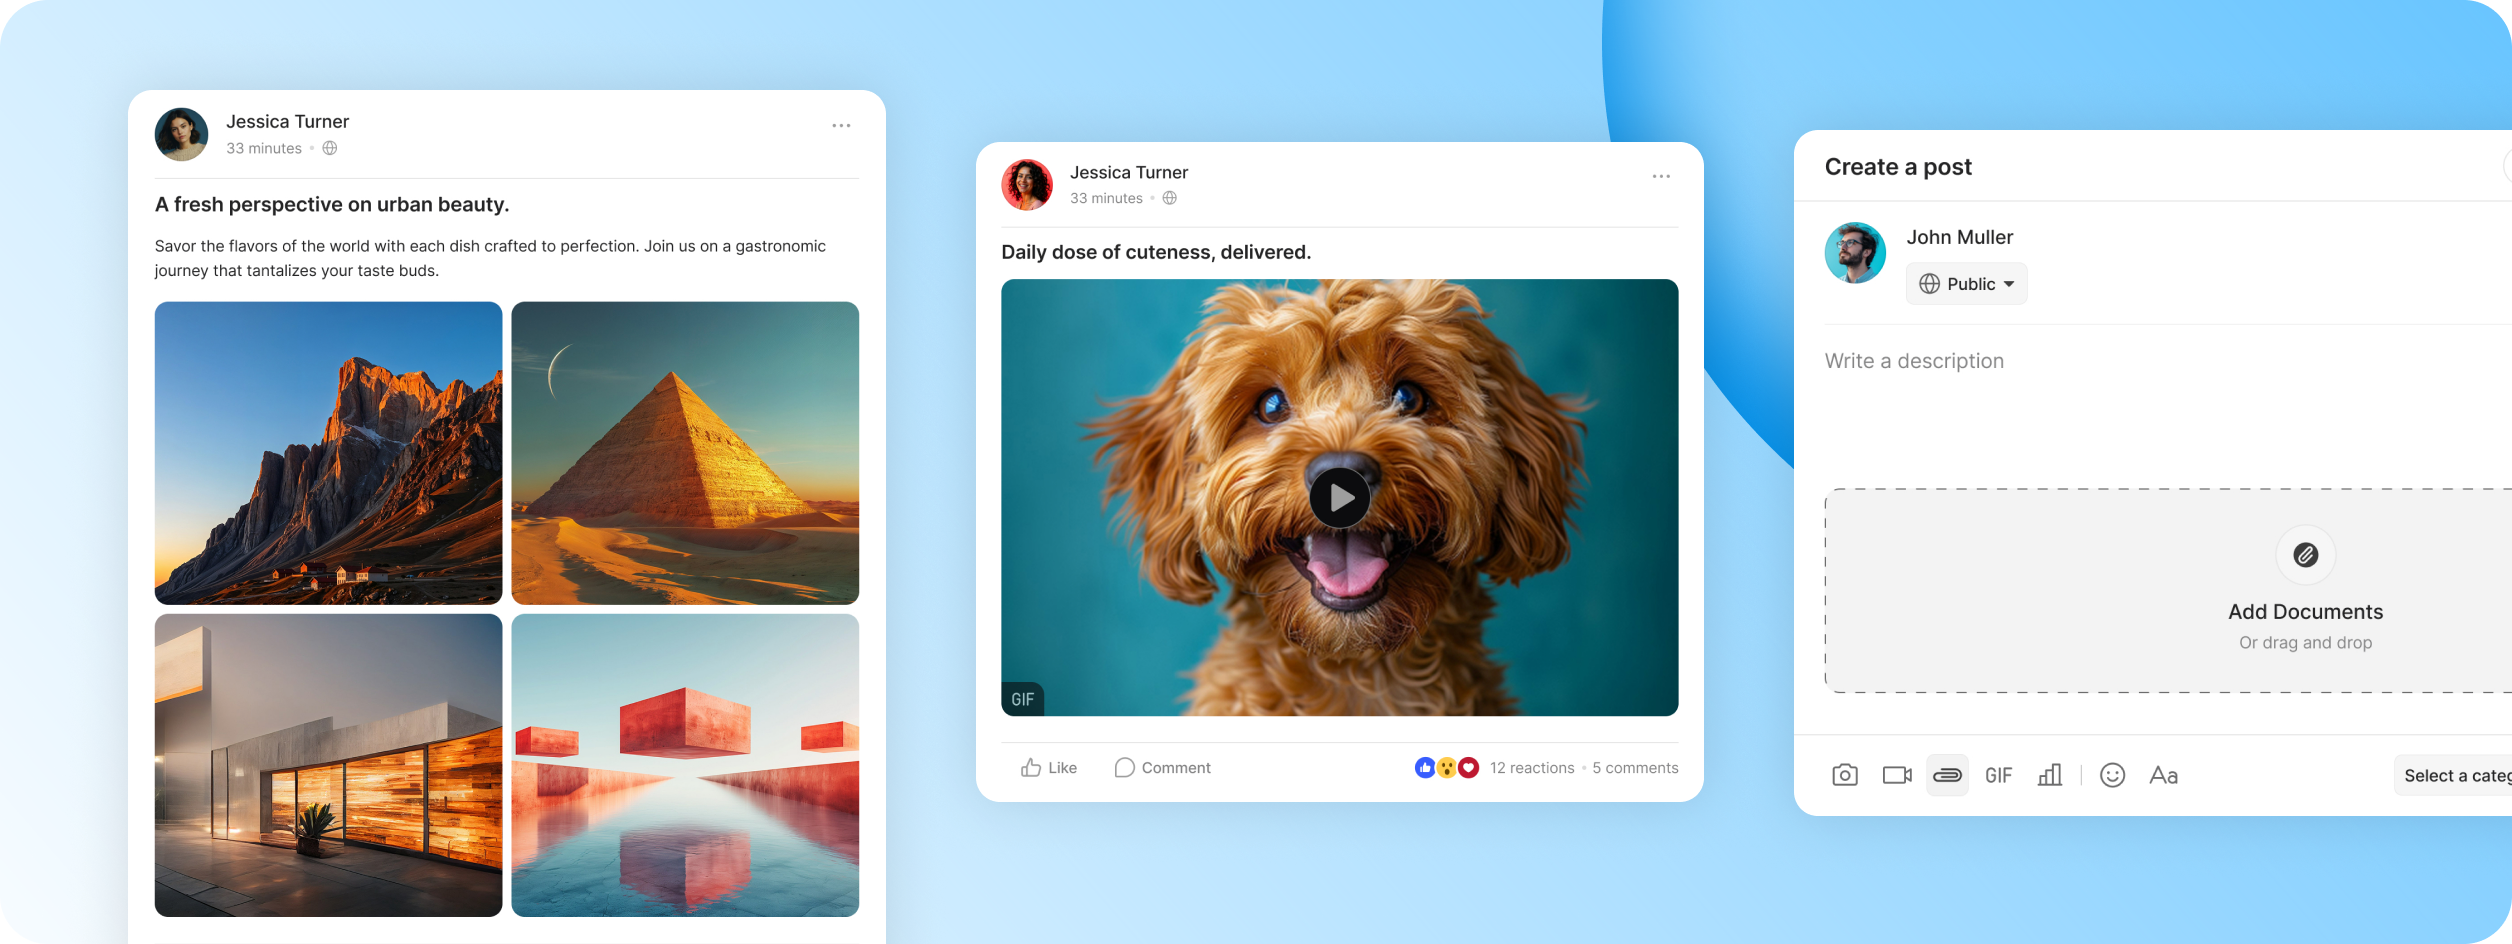
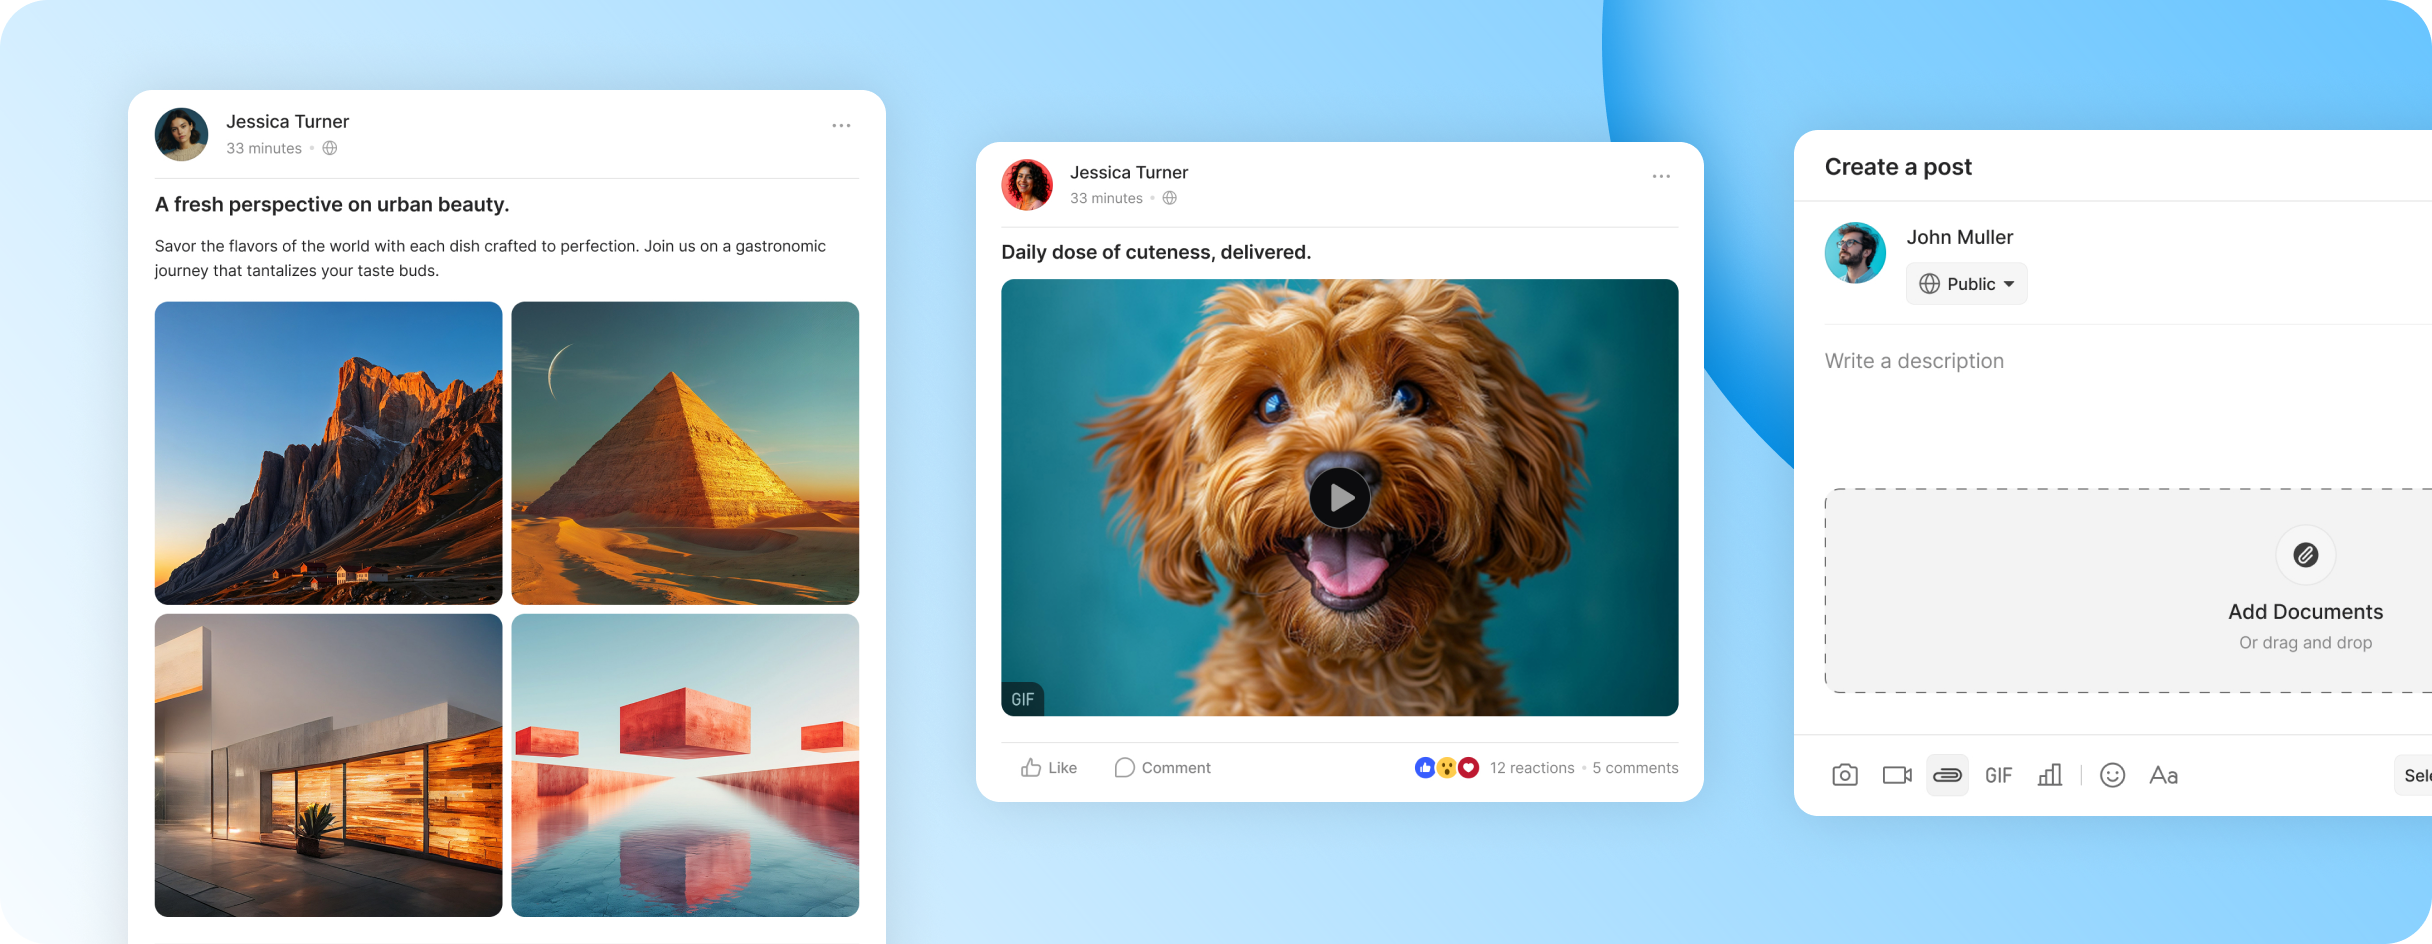
Fix eight spacing and asset mismatches found auditing against Figma
Measured every section's height against live node metadata rather than
eyeballing a render. Eight real differences, all now zero:

  .stack gap was 24px, design says 40   media uploads, gamifications
  .stack--tight bottom pad 24 -> 32     gamifications
  Media Uploads wrapper 1280 -> 1240    and the panel re-exported to suit
  .halves needed 12px block padding     536 -> 560, x4 sections
  .review stars gap 32 -> 16            32 stays below the quote
  .testimonials padding-top 72 -> 80
  app band ellipse double-rotated       flipped its gradient end to end
  WP buttons min-height -> max-height    44 -> 40 with the 1px border

The ellipse is the interesting one: it is rotated 180deg in Figma and the
export already bakes that in, so the CSS rotate(180deg) turned it back
over and put the strong end of its gradient at the top. It now uses the
clipped visible piece at its true bounds with no transform.

Media Uploads being 1240 wide is worth a second look — every other card
is the full 1280 and it stays flush left, so the right edge lands at
1400 instead of 1440. Reproduced as drawn.

Every section height is now within 2px of the design in both builds, all
20 gaps are exactly 104, and the large-area colour palette matches. What
is left of the whole-page diff (3.86%) is the Stack Sans substitution.

diff --git a/wordpress/bb-features/assets/css/features.css b/wordpress/bb-features/assets/css/features.css
@@ -169,7 +169,9 @@
 .bbf .wp-block-button { margin: 0; }
 .bbf-btn .wp-block-button__link {
   display: inline-flex; align-items: center; justify-content: center; gap: 8px;
-  padding: 10px 16px; min-height: 40px;
+  /* max-height, not min-height: with a 1px border the padding + 22px line box
+     comes to 44 and the button overshoots the design's 40. */
+  padding: 10px 16px; max-height: 40px; overflow: hidden;
   border-radius: var(--bbf-radius-lg);
   font-family: var(--bbf-font-body);
   font-size: var(--bbf-sm); line-height: var(--bbf-lh-sm); font-weight: 500;
@@ -200,7 +202,7 @@
   background: var(--bbf-surface); color: var(--bbf-text-brand); border: 0;
 }
 .bbf-btn--lg .wp-block-button__link {
-  min-height: 48px; padding: 12px 24px;
+  max-height: 48px; padding: 12px 24px;
   font-size: var(--bbf-md); line-height: var(--bbf-lh-md);
 }
 .bbf-btn--lg .wp-block-button__link::after {
@@ -394,11 +396,13 @@
    ================================================================= */
 .bbf-stack {
   margin-top: 32px;
-  display: flex; flex-direction: column; gap: 24px;
+  display: flex; flex-direction: column; gap: 40px;
   padding: 12px 12px 32px;
   border-radius: var(--bbf-radius-3xl);
 }
-.bbf-stack--tight { padding-bottom: 24px; }
+/* Media Uploads is the one card that isn't the full 1280 content width —
+   the design has its wrapper at 1240, still flush left at the gutter. */
+.bbf-stack--narrow { max-width: 1240px; }
 .bbf-stack__panel { border-radius: var(--bbf-radius-3xl); overflow: hidden; }
 
 .bbf-features { display: grid; grid-template-columns: repeat(4, 1fr); gap: 48px; padding: 8px 24px; }
@@ -424,7 +428,9 @@
 /* =================================================================
    HALVES  (half copy / half artwork)
    ================================================================= */
-.bbf-halves { display: grid; grid-template-columns: 432px 1fr; gap: 80px; align-items: center; }
+/* the artwork is inset 12px top and bottom inside the 560px row */
+.bbf-halves { display: grid; grid-template-columns: 432px 1fr; gap: 80px; align-items: center;
+              padding-block: 12px; }
 .bbf-halves--flip { grid-template-columns: 1fr 436px; }
 .bbf-halves__copy { display: flex; flex-direction: column; gap: 24px; align-items: flex-start; }
 .bbf-halves__intro { display: flex; flex-direction: column; gap: 16px; }
@@ -450,9 +456,12 @@
   left: -84.08px; top: 216px; width: 671.17px; height: 582px;
   background-image: url('../img/app-polygon.svg');
 }
+/* The ellipse is rotated 180deg in Figma, and the export already bakes that
+   in — rotating it again in CSS flipped its gradient, putting the strong end
+   at the top instead of the bottom. This is the clipped visible piece, so it
+   sits at its true bounds with no transform. */
 .bbf-app::after {
-  left: 1223.74px; top: -73.87px; width: 545.8px; height: 547.15px;
-  transform: rotate(180deg);
+  left: 1223px; top: 0; width: 377px; height: 474px;
   background-image: url('../img/app-ellipse.svg');
 }
 .bbf-app__inner {
@@ -561,8 +570,10 @@
       var(--bbf-stroke-default) 81%, var(--bbf-stroke-rule)) border-box;
   border-radius: var(--bbf-radius-3xl);
   padding: 48px;
-  display: flex; flex-direction: column; gap: 32px;
+  /* stars sit 16px above the quote, then 32px down to the reviewer */
+  display: flex; flex-direction: column; gap: 16px;
 }
+.bbf-review__by { margin-top: 16px; }
 .bbf-review__stars { display: flex; gap: 12px; }
 .bbf-review__stars span {
   width: 32px; height: 32px;
@@ -603,7 +614,7 @@
 /* =================================================================
    TESTIMONIALS
    ================================================================= */
-.bbf-testimonials { background: var(--bbf-brand-subtle); padding-block: 72px 80px; }
+.bbf-testimonials { background: var(--bbf-brand-subtle); padding-block: 80px; }
 .bbf-testimonials__title { max-width: 795px; margin-bottom: 40px; }
 .bbf-tcards { display: grid; grid-template-columns: repeat(3, 1fr); gap: 24px; align-items: start; }
 .bbf-tcard {

diff --git a/website/css/style.css b/website/css/style.css
@@ -413,11 +413,13 @@ button { font: inherit; color: inherit; background: none; border: 0; cursor: poi
    ================================================================= */
 .stack {
   margin-top: 32px;
-  display: flex; flex-direction: column; gap: 24px;
+  display: flex; flex-direction: column; gap: 40px;
   padding: 12px 12px 32px;
   border-radius: var(--radius-3xl);
 }
-.stack--tight { padding-bottom: 24px; }
+/* Media Uploads is the one card that isn't the full 1280 content width —
+   the design has its wrapper at 1240, still flush left at the gutter. */
+.stack--narrow { max-width: 1240px; }
 .stack__panel { border-radius: var(--radius-3xl); overflow: hidden; }
 .stack__panel img { width: 100%; height: auto; }
 
@@ -449,6 +451,8 @@ button { font: inherit; color: inherit; background: none; border: 0; cursor: poi
 .halves {
   display: grid; grid-template-columns: 432px 1fr; gap: 80px;
   align-items: center;
+  /* the artwork is inset 12px top and bottom inside the 560px row */
+  padding-block: 12px;
 }
 .halves--flip { grid-template-columns: 1fr 436px; }
 .halves__copy { display: flex; flex-direction: column; gap: 24px; align-items: flex-start; }
@@ -470,8 +474,11 @@ button { font: inherit; color: inherit; background: none; border: 0; cursor: poi
    frame. Both sit behind the content. */
 .app-band__deco { position: absolute; pointer-events: none; z-index: 0; }
 .app-band__poly    { left: -84.08px;  top: 216px;    width: 671.17px; height: 582px; }
-.app-band__ellipse { left: 1223.74px; top: -73.87px; width: 545.8px;  height: 547.15px;
-                     transform: rotate(180deg); }
+/* The ellipse is rotated 180deg in Figma, and the export already bakes that
+   in — rotating it again in CSS flipped its gradient, putting the strong end
+   at the top instead of the bottom. This is the clipped visible piece, so it
+   sits at its true bounds with no transform. */
+.app-band__ellipse { left: 1223px; top: 0; width: 377px; height: 474px; }
 .app-band__inner { position: relative; z-index: 2; display: grid;
   grid-template-columns: 436px 1fr; gap: 16px; align-items: stretch; }
 .app-card {
@@ -577,8 +584,10 @@ button { font: inherit; color: inherit; background: none; border: 0; cursor: poi
       var(--stroke-default-prim) 81%, var(--stroke-default-tert)) border-box;
   border-radius: var(--radius-3xl);
   padding: 48px;
-  display: flex; flex-direction: column; gap: 32px;
+  /* stars sit 16px above the quote, then 32px down to the reviewer */
+  display: flex; flex-direction: column; gap: 16px;
 }
+.review__by { margin-top: 16px; }
 .review__block { display: flex; flex-direction: column; gap: 16px; }
 .review__stars { display: flex; gap: 12px; }
 .review__stars img { width: 32px; height: 32px; }
@@ -625,7 +634,7 @@ button { font: inherit; color: inherit; background: none; border: 0; cursor: poi
    ================================================================= */
 .testimonials {
   background: var(--bg-brand-subtle);
-  padding-block: 72px 80px;
+  padding-block: 80px;
   margin-top: var(--section-gap);
 }
 .testimonials__title { max-width: 795px; margin-bottom: 40px; }

diff --git a/website/index.html b/website/index.html
@@ -309,7 +309,7 @@
     <h2 class="h2">Share every media type</h2>
   </div>
 
-  <div class="stack stack--blue" data-reveal>
+  <div class="stack stack--blue stack--narrow" data-reveal>
     <div class="stack__panel"><img src="assets/img/panel-media.png" alt="Photo grid, video post and the document uploader in the post composer" loading="lazy"></div>
     <div class="feature-row" data-stagger>
       <div class="feature-row__item" style="--i:0">

diff --git a/wordpress/bb-features/preview.html b/wordpress/bb-features/preview.html
@@ -480,7 +480,7 @@
 		</div>
 		
 		
-		<div class="wp-block-group bbf-stack bbf-stack--blue bbf-reveal">
+		<div class="wp-block-group bbf-stack bbf-stack--blue bbf-stack--narrow bbf-reveal">
 			
 			<figure class="wp-block-image bbf-stack__panel"><img src="assets/img/panel-media.png" alt="Photo grid, video post and the document uploader in the post composer"/></figure>
 			

diff --git a/wordpress/bb-features/patterns/media-uploads.php b/wordpress/bb-features/patterns/media-uploads.php
@@ -20,8 +20,8 @@ $bbf_img = get_theme_file_uri( 'assets/img/' );
 			<!-- wp:heading {"className":"bbf-h2"} --><h2 class="wp-block-heading bbf-h2">Share every media type</h2><!-- /wp:heading -->
 		</div>
 		<!-- /wp:group -->
-		<!-- wp:group {"className":"bbf-stack bbf-stack--blue bbf-reveal","layout":{"type":"default"}} -->
-		<div class="wp-block-group bbf-stack bbf-stack--blue bbf-reveal">
+		<!-- wp:group {"className":"bbf-stack bbf-stack--blue bbf-stack--narrow bbf-reveal","layout":{"type":"default"}} -->
+		<div class="wp-block-group bbf-stack bbf-stack--blue bbf-stack--narrow bbf-reveal">
 			<!-- wp:image {"className":"bbf-stack__panel"} -->
 			<figure class="wp-block-image bbf-stack__panel"><img src="<?php echo esc_url( $bbf_img . 'panel-media.png' ); ?>" alt="Photo grid, video post and the document uploader in the post composer"/></figure>
 			<!-- /wp:image -->
